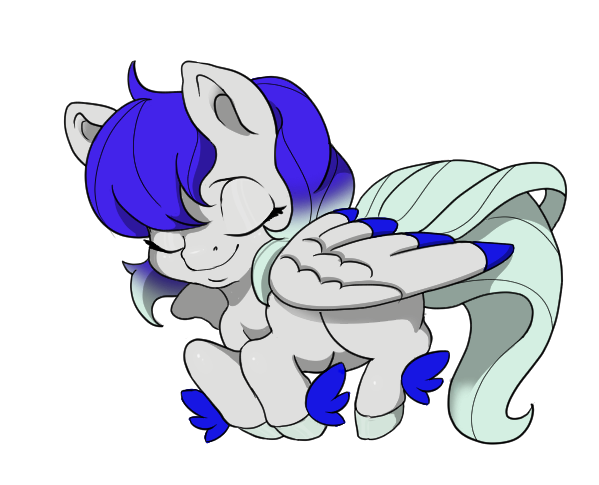
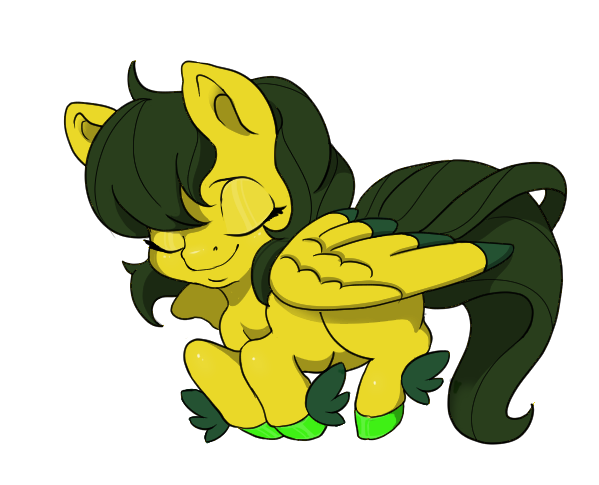
Reworked the breeding logic so that babies can be generated with a color between male/female

diff --git a/app/Http/Controllers/BreederController.php b/app/Http/Controllers/BreederController.php
@@ -36,7 +36,7 @@ class BreederController extends Controller
         $options = ["female", "male"];
         $sex = $options[array_rand($options)];
 
-        $colors = ["eyeCol", "accentCol", "hairCol", "hairCol2", "baseCol", "accentCol2"];
+        $colors = ["hairCol2","eyeCol", "accentCol", "hairCol",  "baseCol", "accentCol2"];
         $stats = ["level", "intel", "str", "hp", "charm"];
         $babycolors = [];
         $babycolorsRGB = [];
@@ -51,42 +51,67 @@ class BreederController extends Controller
                     list($r1, $g1, $b1) = sscanf($ponys[0][$colors[$i]], "%02x%02x%02x");
                     //TAKE PONY2 COLOR CONVERT TO RGB
                     list($r2, $g2, $b2) = sscanf($ponys[1][$colors[$i]], "%02x%02x%02x");
-                    /*CALCULATE AVERAGES FOR NEW RGB
-                    $nr = round((intval($r1) + intval($r2)) / 2);
-                    $ng = round((intval($g1) + intval($g2)) / 2);
-                    $nb = round((intval($b1) + intval($b2)) / 2);
-                    */
-                    //TAKE THE MINIMUM FOR EACH RGB
-                    $mr = min(intval($r1),intval($r2));
-                    $mg = min(intval($g1),intval($g2));
-                    $mb = min(intval($b1),intval($b2));
-                    //GET A RANDOM SHAKE VALUE [0,10]
-                    $shake = rand(-10,10);
-                    $nr = $mr + $shake;
-                    $ng = $mg + $shake;
-                    $nb = $mb + $shake;
+                    //FIND MAX & MIN between sire and dam
+                    $minR = min(intval($r1),intval($r2));
+                    $minG = min(intval($g1),intval($g2));
+                    $minB = min(intval($b1),intval($b2));
+                    $maxR = max(intval($r1),intval($r2));
+                    $maxG = max(intval($g1),intval($g2));
+                    $maxB = max(intval($b1),intval($b2));
+                    $diffR = abs(intval($r1)-intval($r2));
+                    $diffG = abs(intval($g1)-intval($g2));
+                    $diffB = abs(intval($b1)-intval($b2));
+                    //CALCULATE RANDOM SHAKE
+                    $shake = rand(0,100)/100;
+                    //RANDOMIZE THE STARTING POINTS
+                    if(rand(0,1)=== 1){
+                        $startR = $minR;
+                        $fnr = $startR + round($diffR * $shake);
+                    }else{
+                        $startR = $maxR;
+                        $fnr = $startR - round($diffR * $shake);
+                    }
+                    if(rand(0,1)=== 1){
+                        $startG = $minG;
+                        $fng = $startG + round($diffG * $shake);
+                    }else{
+                        $startG = $maxG;
+                        $fng = $startG - round($diffG * $shake);
+                    }
+                    if(rand(0,1)=== 1){
+                        $startB = $minB;
+                        $fnb = $startB + round($diffB * $shake);
+                    }else{
+                        $startB = $maxB;
+                        $fnb = $startB - round($diffB * $shake);
+                    }
 
-
+                    
+                    //SHAKE EACH RGB INDIVIDUALLY
+                    $nr = $fnr + rand(-10,10);
+                    $ng = $fng + rand(-10,10);
+                    $nb = $fnb + rand(-10,10);
+                    //dd($message, $startR, $startG, $startB, $shake, $fnr , $fng , $fnb, $nr, $ng, $nb);
 
                     //CHECK THE VALUES ARE WITHIN RANGE
-                    if($nr > 255){
-                        $nr = 255;
-                    }elseif($nr <0){
-                        $nr = 0;
+                    if($nr > $maxR){
+                        $nr =  $maxR;
+                    }elseif($nr < $minR){
+                        $nr = $minR;
                     }else{
                         $nr = $nr;
                     }    
-                    if($ng > 255){
-                        $ng = 255;
-                    }elseif($ng <0){
-                        $ng = 0;
+                    if($ng > $maxG){
+                        $ng = $maxG;
+                    }elseif($ng < $minG){
+                        $ng = $minG;
                     }else{
                         $ng = $ng;
                     }  
-                    if($nb > 255){
-                        $nb = 255;
-                    }elseif($nb <0){
-                        $nb = 0;
+                    if($nb > $maxB){
+                        $nb = $maxB;
+                    }elseif($nb < $minB){
+                        $nb = $minB;
                     }else{
                         $nb = $nb;
                     }  
@@ -141,21 +166,21 @@ class BreederController extends Controller
             $traitID = '"12"';
             $breedID = '12';
         }
-        $colors = ["eyeCol", "accentCol", "hairCol", "hairCol2", "baseCol", "accentCol2"];
+        $colors = ["hairCol2","eyeCol", "accentCol", "hairCol",  "baseCol", "accentCol2"];
         $newPony = array([
-            'eyes' => $babycolors[0],
+            'eyes' => $babycolors[1],
             'token' => uniqid(),
-            'hair' => $babycolors[2],
-            'hair2' => $babycolors[3],
-            'accent' => $babycolors[1],
+            'hair' => $babycolors[3],
+            'hair2' => $babycolors[0],
+            'accent' => $babycolors[2],
             'accent2' => $babycolors[5],
             'specialtrait' => $babytrait,
             'coat' => $babycolors[4],
-            'eyesRGB' => $babycolorsRGB[0],
+            'eyesRGB' => $babycolorsRGB[1],
             'coatRGB' => $babycolorsRGB[4],
-            'hairRGB' => $babycolorsRGB[2],
-            'hair2RGB' => $babycolorsRGB[3],
-            'accentRGB' => $babycolorsRGB[1],
+            'hairRGB' => $babycolorsRGB[3],
+            'hair2RGB' => $babycolorsRGB[0],
+            'accentRGB' => $babycolorsRGB[2],
             'accent2RGB' => $babycolorsRGB[5],
             'sex' => $sex,
             //BREED ID

diff --git a/app/Listeners/ColorNMergeImagesAdult.php b/app/Listeners/ColorNMergeImagesAdult.php
@@ -32,7 +32,7 @@ class ColorNMergeImages
         $faces = ["blaze", "ffade", "fvulpine"];
         $none = ["none"];
         $bodys = ["paint"];
-        $uncolored = ["hrainbow", "fvulpine"];
+        $uncolored = ["hrainbow", "fvulpine","paint"];
         $breedID = $event->newPony[0]["breedID"];
         $babytrait = $event->newPony[0]["babytrait"];
         $traitID = $event->newPony[0]["traitID"];
